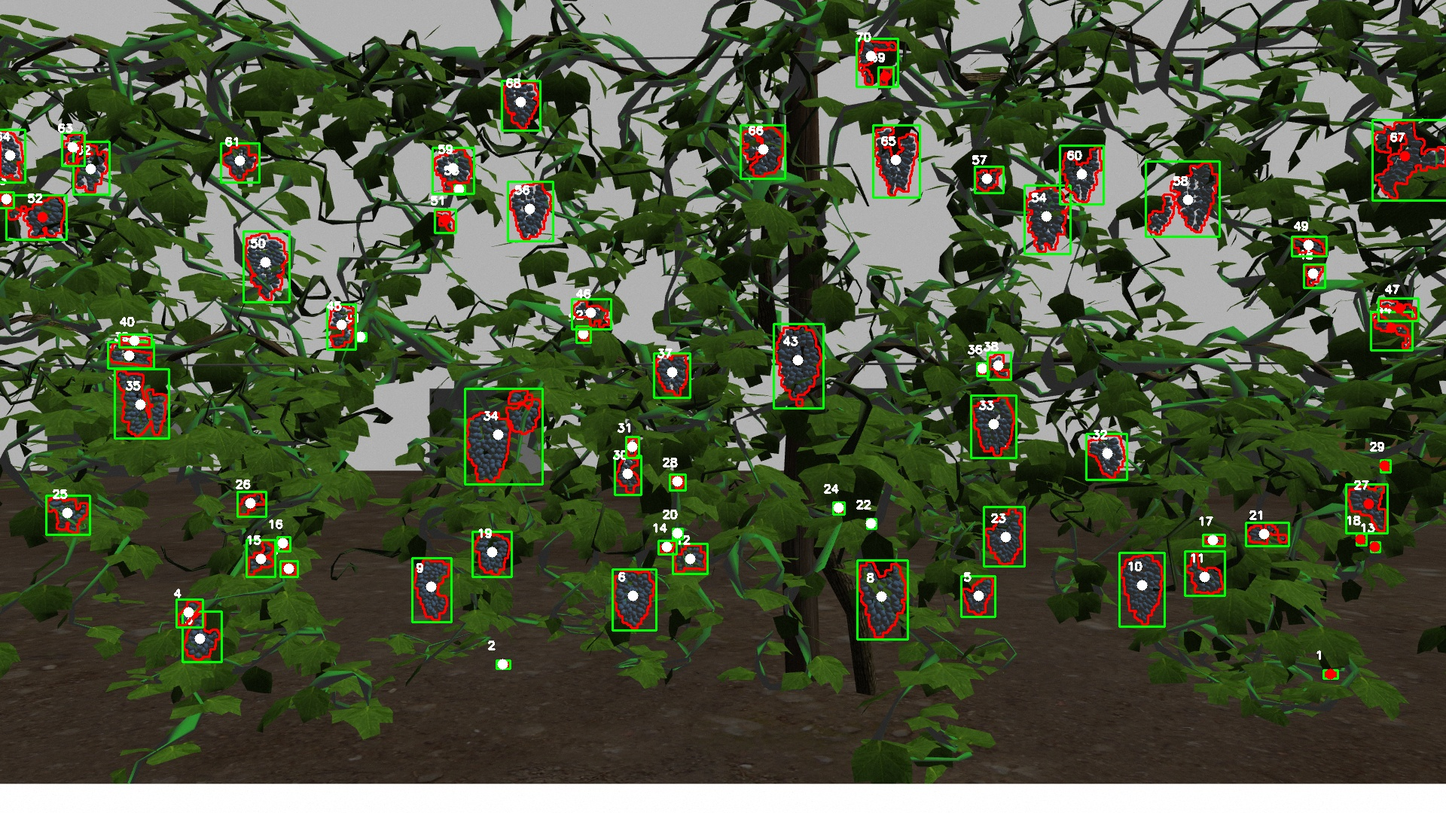
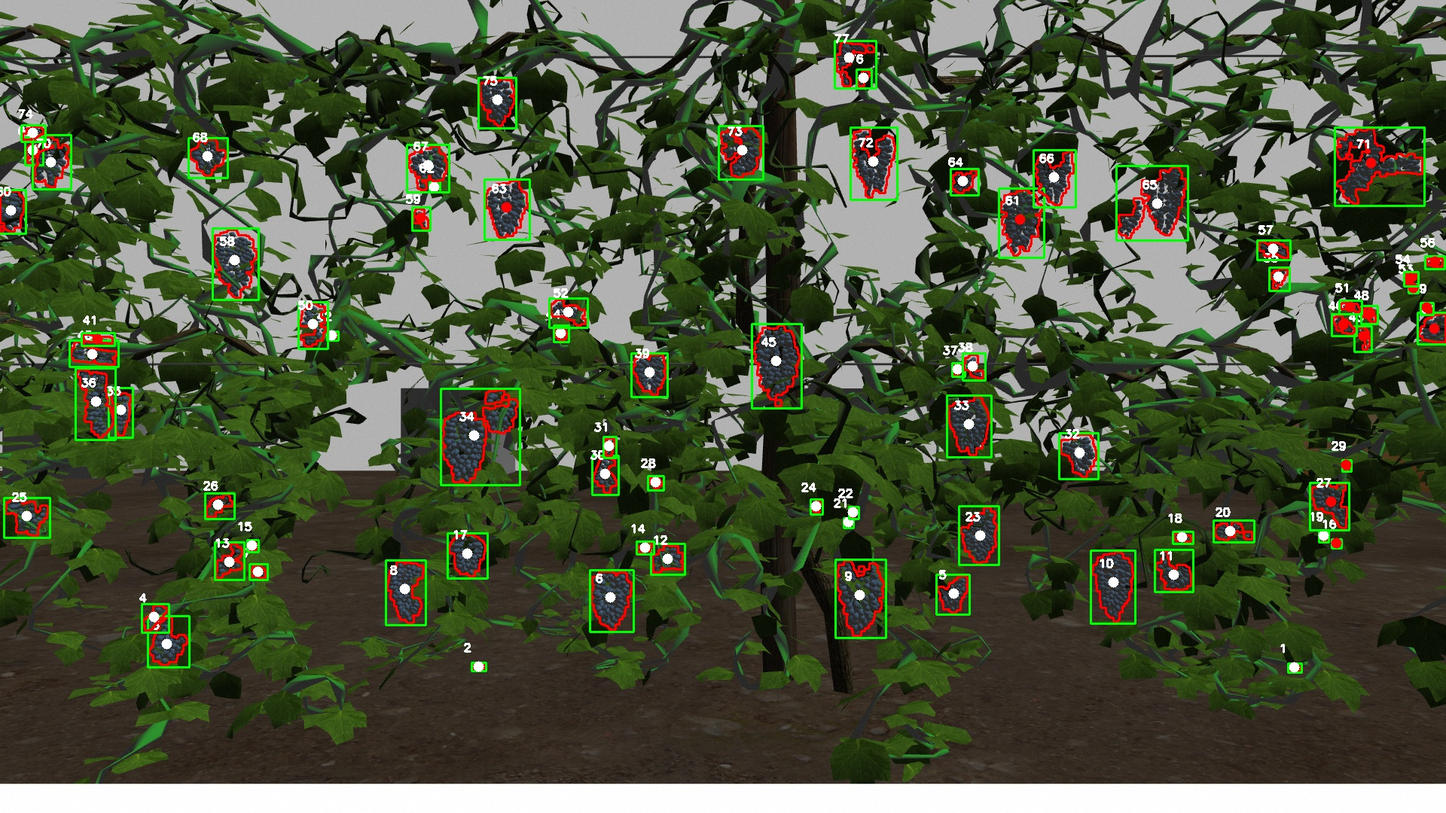
Tinkering with depth area 223 bunches

diff --git a/andy_ass1/scripts/camera.py b/andy_ass1/scripts/camera.py
@@ -52,7 +52,7 @@ class findBunches:
         # 84.1 and 70.0 taken from kinect2-gazebo.xacro file
         # NOTE TODO the 70.0 figure is disputed and should be 69.x or something
         # https://www.ncbi.nlm.nih.gov/pmc/articles/PMC9002889/#:~:text=The%20Kinect%20v2%20depth%20sensor,4.5%20m%20range%20%5B13%5D.
-        self.color2depth_aspect = (84.1/1920) / (60/512)
+        self.color2depth_aspect = (84.1/1920) / (70.0/512)
 
         # A list of x,y,z for each bunch detected
         self.bunches = []
@@ -177,7 +177,7 @@ class findBunches:
                 aY = []
                 aZ = []
                 try:
-                    for i,v in enumerate([(-1,-1), (-1,0), (-1,1), (0, 0), (0, -1), (0, 1), (1,-1), (1,0), (1,1), (-2,-2), (-2,-1), (-2, 0), (-2,1), (-2,2), (-1,-2), (0,-2), (1,-2), (2,-2), (2,-1), (2,0), (2,1), (2,2), (1,2), (0,2),(-1,2), (-3,-3), (-3, -2), (-3,-1), (-3,0), (-3,1), (-3,2), (-3,3), (-2,-3), (-2,3), (-1,-3), (-1,3), (0,-3), (0,3),(1,-3), (1,3), (2,-3), (2,3), (3,-3),(3,-2),(3,-1),(3,0),(3,1),(3,2),(3,3)]):
+                    for i,v in enumerate([(-1,-1), (-1,0), (-1,1), (0, 0), (0, -1), (0, 1), (1,-1), (1,0), (1,1), (-2,-2), (-2,-1), (-2, 0), (-2,1), (-2,2), (-1,-2), (0,-2), (1,-2), (2,-2), (2,-1), (2,0), (2,1), (2,2), (1,2), (0,2),(-1,2)]):#, (-3,-3), (-3, -2), (-3,-1), (-3,0), (-3,1), (-3,2), (-3,3), (-2,-3), (-2,3), (-1,-3), (-1,3), (0,-3), (0,3),(1,-3), (1,3), (2,-3), (2,3), (3,-3),(3,-2),(3,-1),(3,0),(3,1),(3,2),(3,3)]):
 
                         # The depth array is smaller than the original colour image
                         depth_coords = (self.image_depth.shape[0] / 2 + ((cY+v[0]) - self.orig_image.shape[0] / 2) * self.color2depth_aspect, 
@@ -236,6 +236,7 @@ class findBunches:
                     object_location.header.stamp = self.stampDepth # Makes no difference if included - TODO why?
                     object_location.header.frame_id = self.camera_model.tfFrame() 
                     object_location.pose.orientation.w = 1
+                    
                     # Produce an average location
                     object_location.pose.position.x = xx / tt
                     object_location.pose.position.y = yy / tt
@@ -306,6 +307,7 @@ class findBunches:
         # Image is BGR
         self.cv_image = self.bridge.imgmsg_to_cv2(img_msg, "passthrough")
         self.image_depth = self.bridge.imgmsg_to_cv2(self.image_depth_ros, "32FC1")
+        
         # We want to display a nice colour correct image
         self.orig_image = cv2.cvtColor(self.cv_image, cv2.COLOR_BGR2RGB)
 
